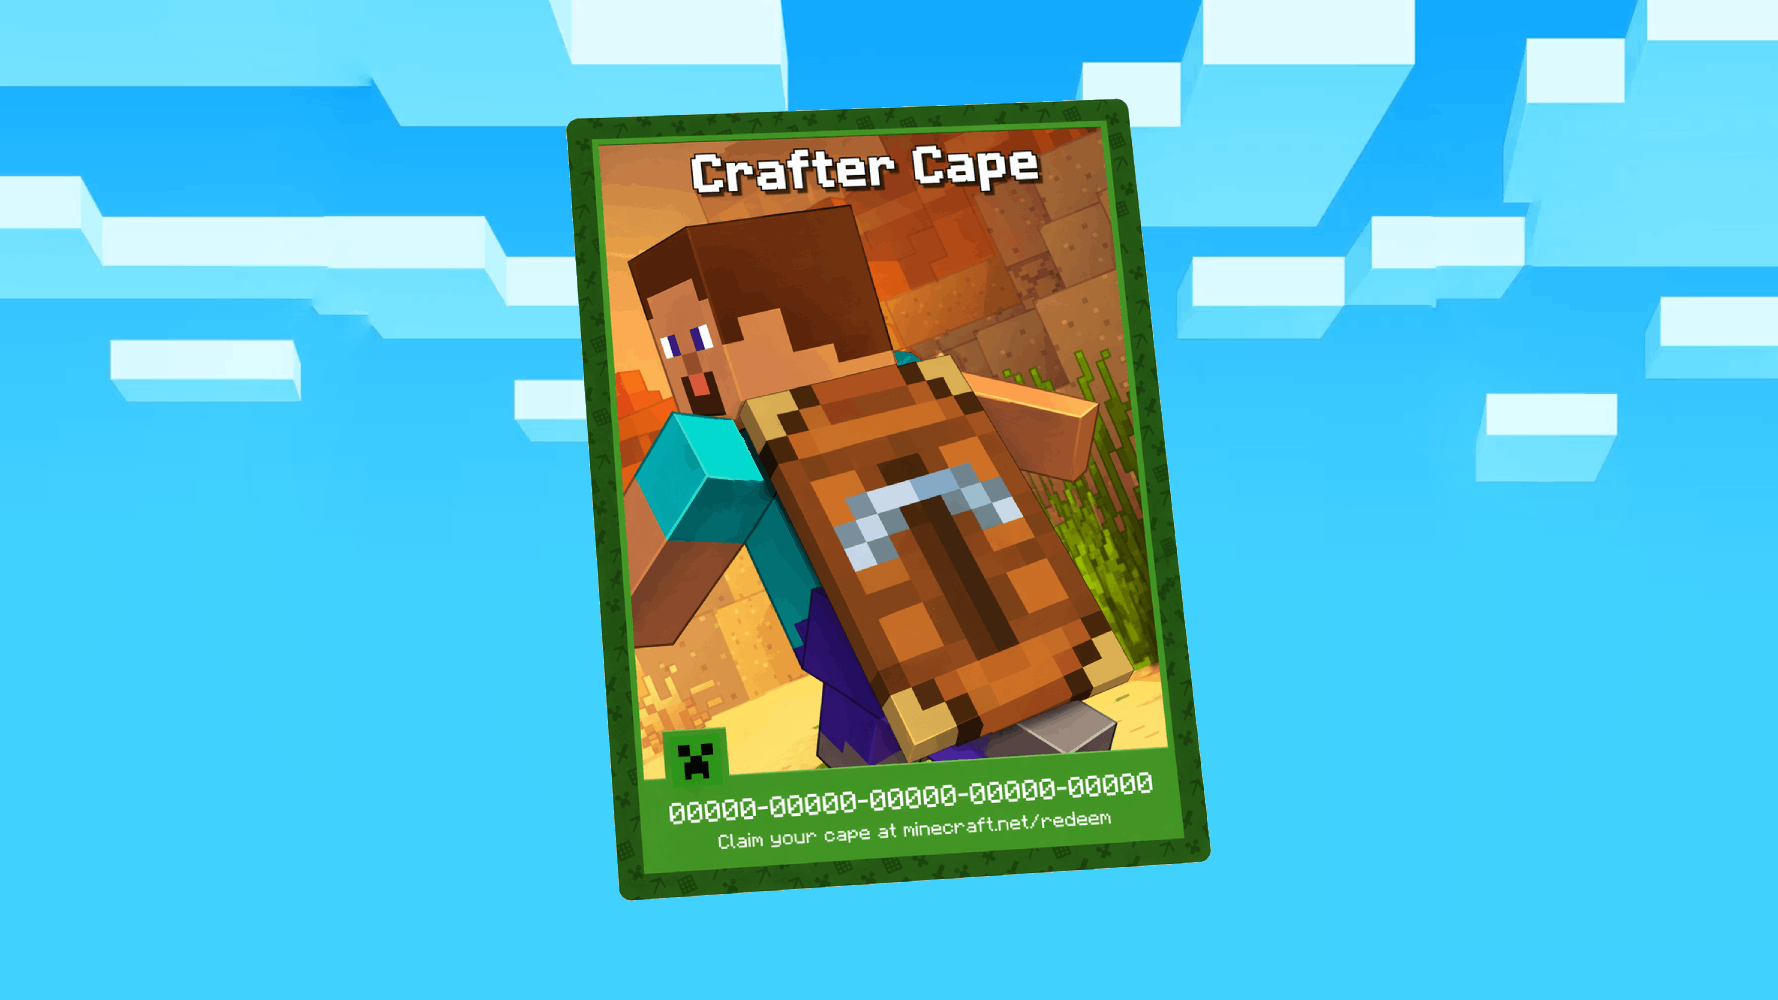
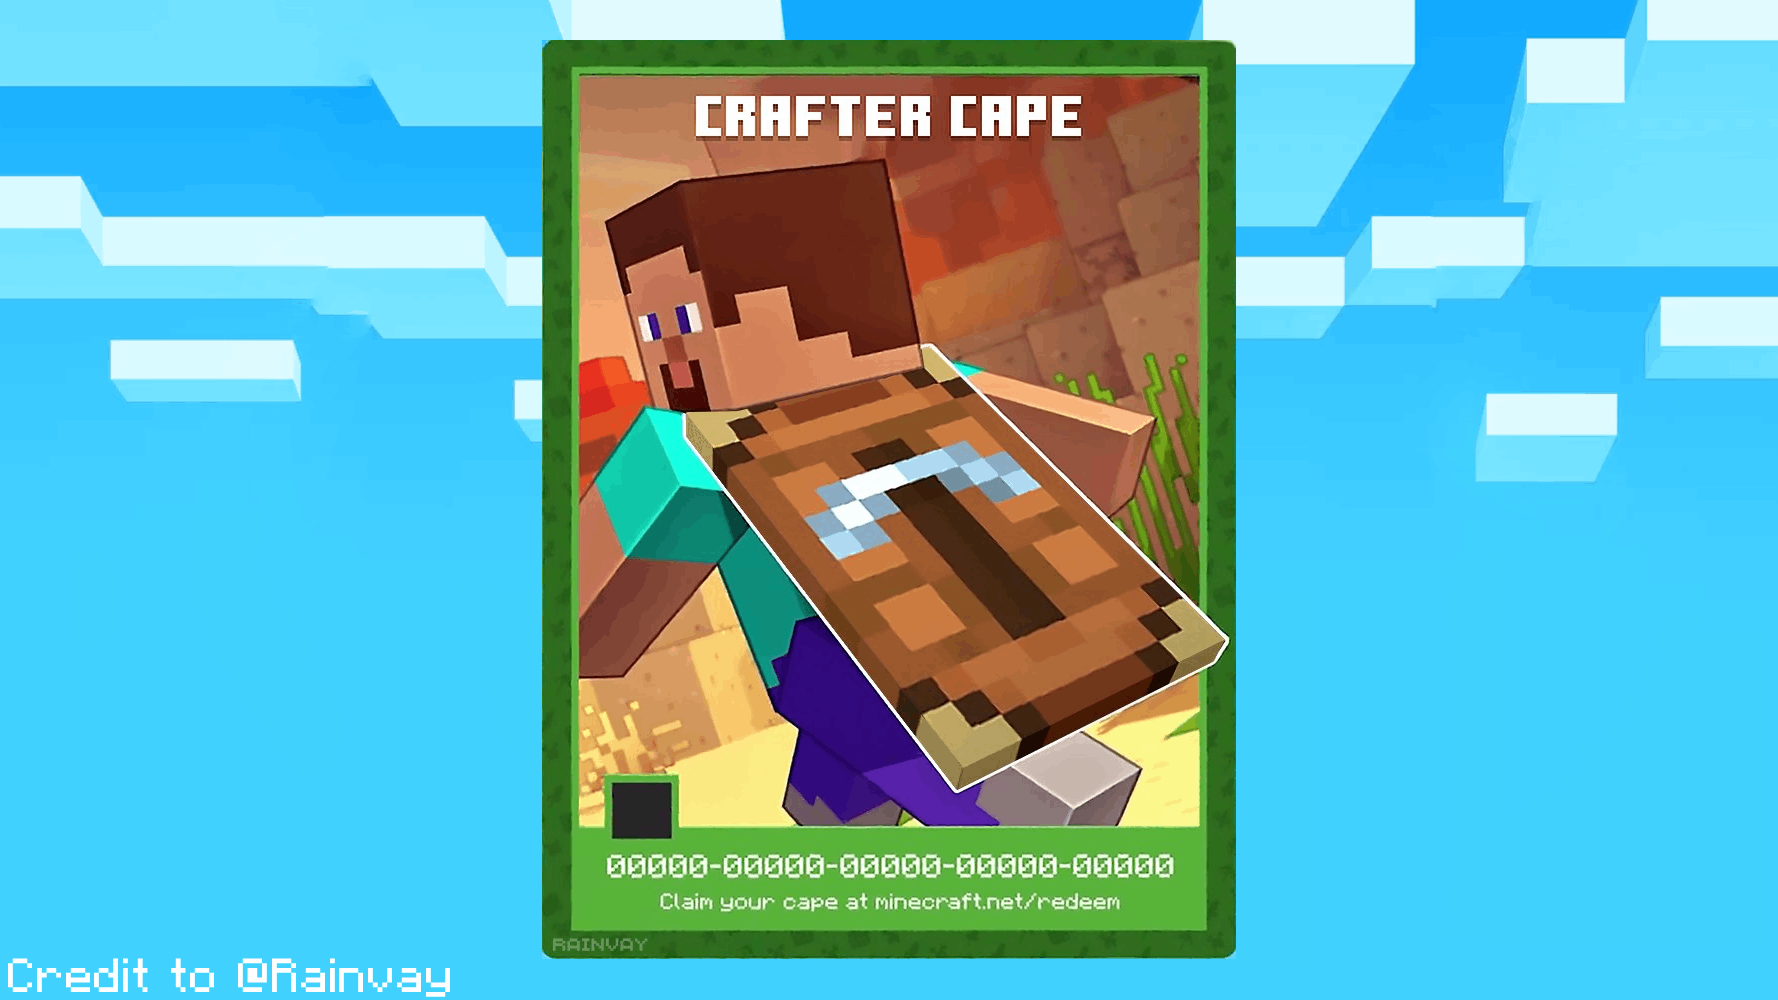
New image

diff --git a/articles/how-to-get-the-crafter-cape/index.html b/articles/how-to-get-the-crafter-cape/index.html
@@ -68,8 +68,8 @@
     <meta name="twitter:domain" content="bedrock-cosmos.app" />
 
     <!-- ══ MISC ══ -->
-    <meta name="theme-color" content="#5b21b6" />
-    <meta name="msapplication-TileColor" content="#5b21b6" />
+    <meta name="theme-color" content="#41d1ff" />
+    <meta name="msapplication-TileColor" content="#41d1ff" />
     <meta name="application-name" content="Bedrock Cosmos" />
     <link rel="preconnect" href="https://bedrock-cosmos.app" />
     <link rel="dns-prefetch" href="https://bedrock-cosmos.app" />
@@ -412,7 +412,7 @@
             height="630"
             loading="eager"
           />
-          <figcaption>The Crafter Cape, a limited TwitchCon 2026 exclusive for Minecraft.</figcaption>
+          <figcaption>The Crafter Cape, a limited TwitchCon 2026 exclusive for Minecraft. - Image by @Rainvay on X</figcaption>
         </figure>
 
         <!-- Article body -->
